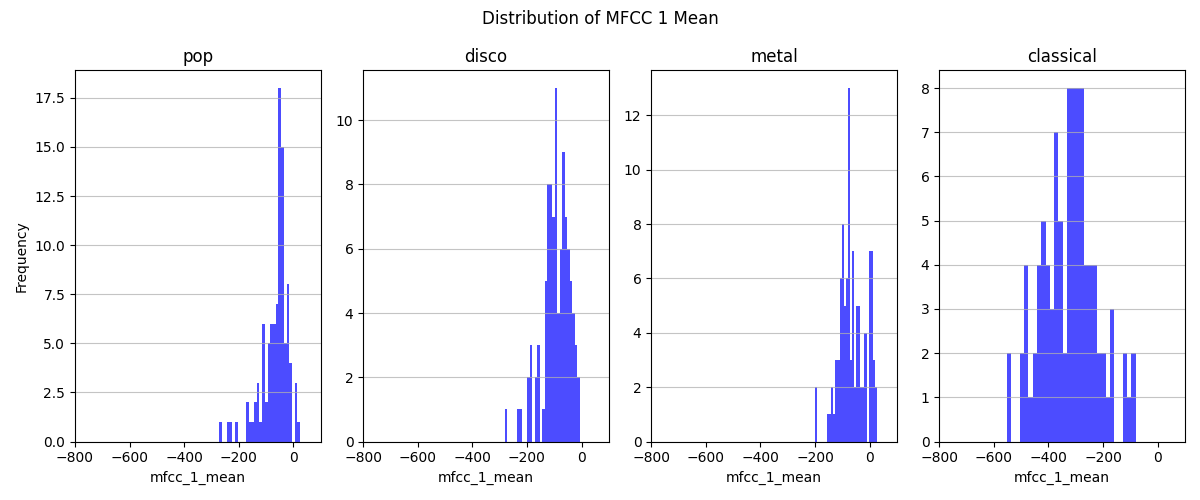
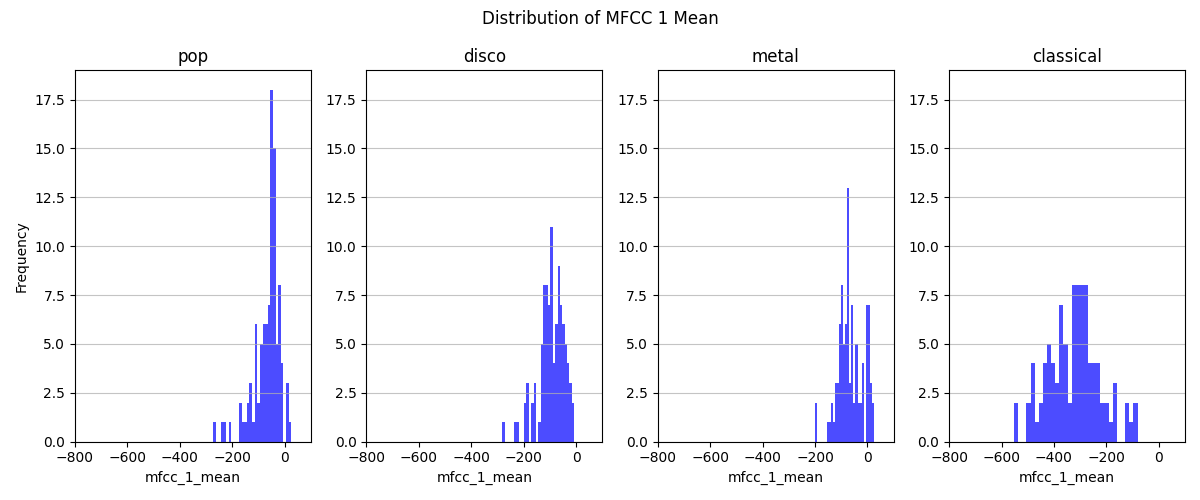
Added max-min scaler

diff --git a/main.py b/main.py
@@ -2,6 +2,7 @@ import numpy as np
 import matplotlib.pyplot as plt
 import pandas as pd
 from kNN_classifier import kNNClassifier
+from maxMinScaler import MaxMinScaler
 from performance import save_confusion_matrix, plot_histogram
 
 labels = ["pop", "metal", "disco", "blues", "reggae", "classical", "rock", "hiphop", "country", "jazz"]
@@ -15,46 +16,95 @@ features = [
 ]
 
 # Loading data files
-df_5s = pd.read_csv('data/GenreClassData_5s.txt', sep='\t', usecols=features + ['Type', 'Genre'])
-df_10s = pd.read_csv('data/GenreClassData_10s.txt', sep='\t', usecols=features + ['Type', 'Genre'])
 df_30s = pd.read_csv('data/GenreClassData_30s.txt', sep='\t', usecols=features + ['Type', 'Genre'])
 
 # Splitting training and testing data
+df_30s_train = df_30s[df_30s['Type'] == 'Train'][features]
+df_30s_test  = df_30s[df_30s['Type'] == 'Test'][features]
+
+train_30s = df_30s_train.to_numpy()
+test_30s = df_30s_test.to_numpy()
+
+# Task 1
+# Scale features to [0, 1] range using Min-Max scaling
+scaler = MaxMinScaler(feature_range=(0, 1))
+
+train_30s_scaled = scaler.fit_transform(train_30s[:, :-1])
+test_30s_scaled = scaler.transform(test_30s[:, :-1])
+
+classifier = kNNClassifier(k=5)
+classifier.fit(train_30s_scaled[:, :-1], train_30s[:, -1])
+predictions = classifier.predict(test_30s_scaled[:, :-1])
+
+accuracy = np.mean(predictions == test_30s[:, -1])
+print(f'Error rate: {1 - accuracy:.2f}')
+
+# save_confusion_matrix(test_30s_scaled[:, -1], predictions, labels, f"Task 1 - Confusion matrix\n Error rate: {1 - accuracy:.2f}", "task_1_cm")
+
+# Task 2
+test_labels = ["pop", "disco", "metal", "classical"]
+#plot_histogram(df_30s, test_labels, 'spectral_rolloff_mean', 0, 9000, 16, bins=30, title="Distribution of Spectral Rolloff Mean", task="task_2")
+#plot_histogram(df_30s, test_labels, 'mfcc_1_mean', -800, 100, 19, bins=30, title="Distribution of MFCC 1 Mean", task="task_2")
+#plot_histogram(df_30s, test_labels, 'spectral_centroid_mean', 0, 5000, 16, bins=30, title="Distribution of Spectral Centroid Mean", task="task_2")
+#plot_histogram(df_30s, test_labels, 'tempo', 50, 200, 30, bins=30, title="Distribution of Tempo", task="task_2")
+
+# Task 3
+new_feature = 'spectral_rolloff_var'
+# spectral_bandwidth_mean
+# spectral_contrast_mean
+# chroma_stft_1_mean
+# spectral_flatness_mean best to now
+# 'spectral_rolloff_var' best without scaling
+
+features = [
+    'spectral_rolloff_mean',
+    'mfcc_1_mean',
+    'spectral_centroid_mean',
+    #new_feature,
+    'GenreID'
+]
+
+df_30s = pd.read_csv('data/GenreClassData_30s.txt', sep='\t', usecols=features + ['Type', 'Genre'])
+df_30s_train = df_30s[df_30s['Type'] == 'Train'][features]
+df_30s_test  = df_30s[df_30s['Type'] == 'Test'][features]
+train_30s = df_30s_train.to_numpy()
+test_30s = df_30s_test.to_numpy()
+
+scaler = MaxMinScaler(feature_range=(0, 1))
+
+train_30s_scaled = scaler.fit_transform(train_30s[:, :-1])
+test_30s_scaled = scaler.transform(test_30s[:, :-1])
+
+#print(df_30s[df_30s['Genre'] == 'pop'][new_feature])
+#plot_histogram(df_30s, test_labels, new_feature, -0.01, 0.15, 60, bins=30, title="Distribution of spectral flatness mean", task="task_3")
+
+classifier = kNNClassifier(k=5)
+classifier.fit(train_30s_scaled[:, :-1], train_30s[:, -1])
+predictions = classifier.predict(test_30s_scaled[:, :-1])
+
+accuracy = np.mean(predictions == test_30s[:, -1])
+print(f'Error rate with new feature: {1 - accuracy:.2f}')
+
+# Task 4
+features = [
+    'spectral_rolloff_mean',
+    'mfcc_1_mean',
+    'spectral_centroid_mean',
+    'tempo',
+    'GenreID'
+]
+
+df_5s = pd.read_csv('data/GenreClassData_5s.txt', sep='\t', usecols=features + ['Type', 'Genre'])
+df_10s = pd.read_csv('data/GenreClassData_10s.txt', sep='\t', usecols=features + ['Type', 'Genre'])
+
 df_5s_train = df_5s[df_5s['Type'] == 'Train'][features]
 df_5s_test  = df_5s[df_5s['Type'] == 'Test'][features]
 
 df_10s_train = df_10s[df_10s['Type'] == 'Train'][features]
 df_10s_test  = df_10s[df_10s['Type'] == 'Test'][features]
 
-df_30s_train = df_30s[df_30s['Type'] == 'Train'][features]
-df_30s_test  = df_30s[df_30s['Type'] == 'Test'][features]
-
 train_5s = df_5s_train.to_numpy()
 test_5s = df_5s_test.to_numpy()
 
 train_10s = df_10s_train.to_numpy()
 test_10s = df_10s_test.to_numpy()
-
-train_30s = df_30s_train.to_numpy()
-test_30s = df_30s_test.to_numpy()
-
-# Task 1
-classifier = kNNClassifier(k=5)
-classifier.fit(train_30s[:, :-1], train_30s[:, -1])
-predictions = classifier.predict(test_30s[:, :-1])
-
-accuracy = np.mean(predictions == test_30s[:, -1])
-print(f'Error rate: {1 - accuracy:.2f}')
-
-# save_confusion_matrix(test_30s[:, -1], predictions, labels, f"Task 1 - Confusion matrix\n Error rate: {1 - accuracy:.2f}", "task_1_cm")
-
-# Task 2
-test_labels = ["pop", "disco", "metal", "classical"]
-#plot_histogram(df_30s, test_labels, 'spectral_rolloff_mean', 0, 9000, bins=30, title="Distribution of Spectral Rolloff Mean", task="task_2")
-#plot_histogram(df_30s, test_labels, 'mfcc_1_mean', -800, 100, bins=30, title="Distribution of MFCC 1 Mean", task="task_2")
-#plot_histogram(df_30s, test_labels, 'spectral_centroid_mean', 0, 5000, bins=30, title="Distribution of Spectral Centroid Mean", task="task_2")
-#plot_histogram(df_30s, test_labels, 'tempo', 50, 200, bins=30, title="Distribution of Tempo", task="task_2")
-
-# Task 3
-
-# Task 4

diff --git a/performance.py b/performance.py
@@ -22,12 +22,13 @@ def save_confusion_matrix(y_true, y_pred, labels, figure_title, png_title):
     
     plt.savefig(png_name)
 
-def plot_histogram(dataframe, classes, feature, xlim_bottom, xlim_top, bins=30, title="", task=""):
+def plot_histogram(dataframe, classes, feature, xlim_bottom, xlim_top, ylim_top, bins=30, title="", task=""):
     fig, ax = plt.subplots(1, len(classes), figsize=(12, 5))
     ax[0].set_ylabel("Frequency")
     for i, genre in enumerate(classes):
         ax[i].hist(dataframe[dataframe['Genre'] == genre][feature], bins=bins, color='blue', alpha=0.7)
         ax[i].set_xlim(xlim_bottom, xlim_top)  # Set x-axis limit for better visualization
+        ax[i].set_ylim(0, ylim_top)  # Set y-axis limit for better visualization
         ax[i].set_xlabel(f"{feature}")
         ax[i].set_title(genre)
         ax[i].grid(axis='y', alpha=0.75)

diff --git a/maxMinScaler.py b/maxMinScaler.py
@@ -1,0 +1,18 @@
+import numpy as np
+
+class MaxMinScaler:
+    def __init__(self, feature_range=(0, 1)):
+        self.feature_range = feature_range
+
+    def fit(self, data):
+        self.min_ = np.min(data, axis=0)
+        self.max_ = np.max(data, axis=0)
+
+    def transform(self, data):
+        scaled_data = (data - self.min_) / (self.max_ - self.min_)
+        scaled_data = scaled_data * (self.feature_range[1] - self.feature_range[0]) + self.feature_range[0]
+        return scaled_data
+
+    def fit_transform(self, data):
+        self.fit(data)
+        return self.transform(data)
